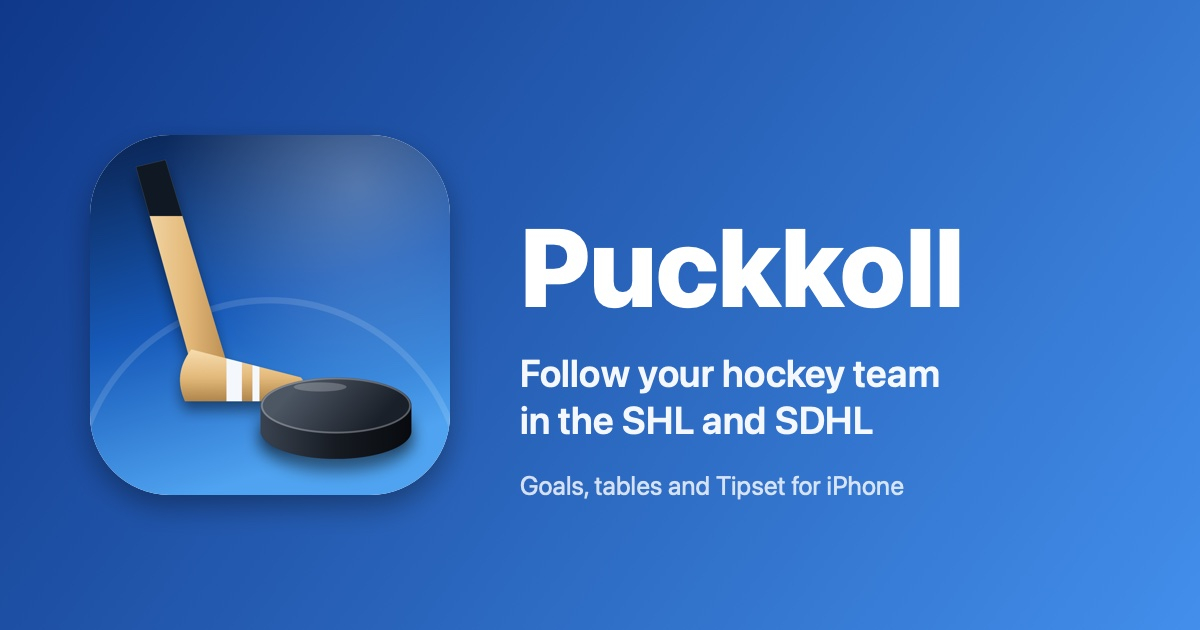
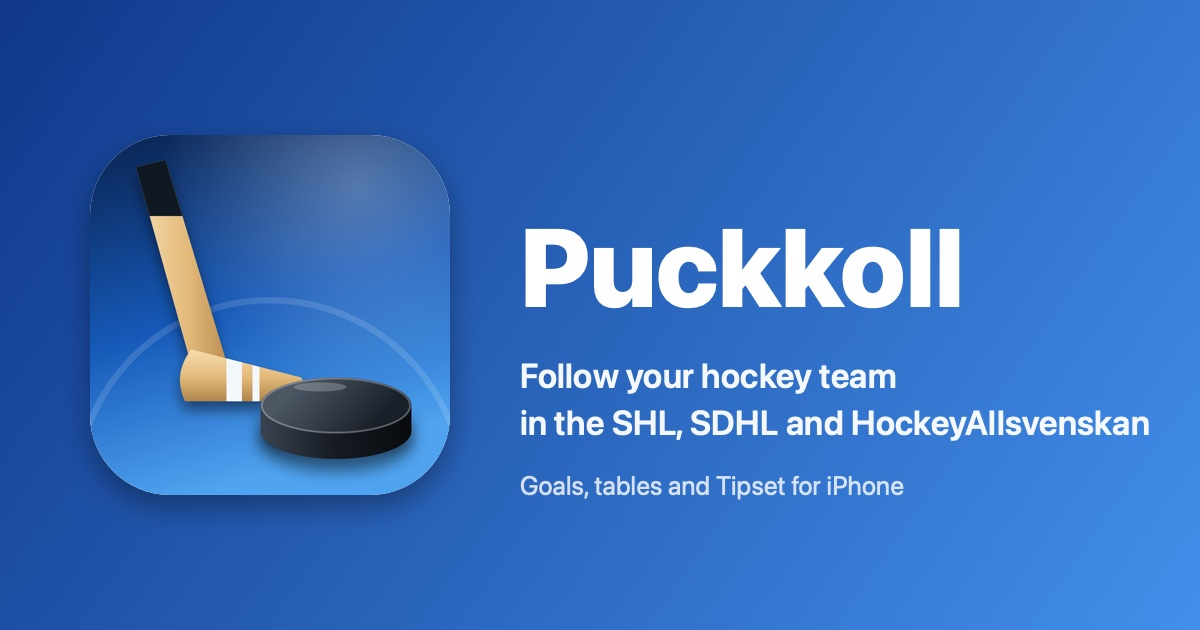
Site: TestFlight link and HockeyAllsvenskan

Changed region(s): [[0.4317, 0.573, 0.9558, 0.6937]]

diff --git a/index.html b/index.html
@@ -3,13 +3,13 @@
 <head>
   <meta charset="utf-8">
   <meta name="viewport" content="width=device-width, initial-scale=1">
-  <title>Puckkoll – follow your hockey team in the SHL and SDHL</title>
-  <meta name="description" content="Puckkoll is an iPhone app for following SHL and SDHL hockey: schedule, live scores, tables, goal notifications, Live Activities, an Apple Watch app and Tipset to tip with friends. No accounts, no ads, no tracking.">
+  <title>Puckkoll – follow your hockey team in the SHL, SDHL and HockeyAllsvenskan</title>
+  <meta name="description" content="Puckkoll is an iPhone app for following SHL, SDHL and HockeyAllsvenskan hockey: schedule, live scores, tables, goal notifications, Live Activities, an Apple Watch app and Tipset to tip with friends. No accounts, no ads, no tracking.">
   <meta name="theme-color" content="#2b6fd0">
   <link rel="icon" type="image/png" href="assets/favicon.png">
   <link rel="apple-touch-icon" href="assets/apple-touch-icon.png">
   <meta property="og:title" content="Puckkoll">
-  <meta property="og:description" content="Follow your hockey team in the SHL and SDHL: goals, tables and Tipset for iPhone. No accounts, no tracking.">
+  <meta property="og:description" content="Follow your hockey team in the SHL, SDHL and HockeyAllsvenskan: goals, tables and Tipset for iPhone. No accounts, no tracking.">
   <meta property="og:type" content="website">
   <meta property="og:url" content="https://idrewn.github.io/puckkoll-site/">
   <meta property="og:image" content="https://idrewn.github.io/puckkoll-site/assets/og.jpg">
@@ -27,8 +27,9 @@
   <div class="wrap hero">
     <div class="mark" aria-hidden="true"><span class="puck"></span></div>
     <h1>Puckkoll</h1>
-    <p class="lead">Your team in the SHL and SDHL, on every screen you own: the schedule, the score as it changes, the table and a notification when it counts.</p>
-    <span class="badge">In TestFlight beta, by invitation &middot; iOS 26 or later</span>
+    <p class="lead">Your team in the SHL, SDHL or HockeyAllsvenskan, on every screen you own: the schedule, the score as it changes, the table and a notification when it counts.</p>
+    <p style="margin:0 0 14px;"><a class="button" href="https://testflight.apple.com/join/mNUufdGk" rel="noopener">Join the beta on TestFlight</a></p>
+    <span class="badge">In TestFlight beta &middot; iOS 26 or later</span>
     <div class="clubs" aria-label="The fourteen SHL clubs, drawn as pucks in their colours">
       <span class="puck" style="--a:#FFCC00;--b:#000000" title="Brynäs"></span>
       <span class="puck" style="--a:#0568AF;--b:#FFEC0D" title="Djurgården"></span>
@@ -64,8 +65,8 @@
           <p>Home and away tables, form dots and the places that decide the playoffs. Pick which columns to show, from played games to goals for and against.</p></div>
         <div class="card"><span class="puck" style="--a:#0568AF;--b:#FFEC0D" aria-hidden="true"></span><h3>Pucks for badges</h3>
           <p>Every club is a puck in its own colours. Prefer the classic disc with the club code, or a picture of your own on any club? Both are in the settings.</p></div>
-        <div class="card"><span class="puck" style="--a:#003781;--b:#F37932" aria-hidden="true"></span><h3>SHL and SDHL</h3>
-          <p>Switch league from the menu at the top. SDHL has the schedule, results, table and player statistics; notifications and Tipset are SHL only for now.</p></div>
+        <div class="card"><span class="puck" style="--a:#003781;--b:#F37932" aria-hidden="true"></span><h3>Three leagues</h3>
+          <p>Switch between SHL, SDHL and HockeyAllsvenskan from the menu at the top. HockeyAllsvenskan has goals and penalties like the SHL; SDHL has the schedule, results, table and player statistics. Notifications and Tipset are for the SHL so far.</p></div>
         <div class="card"><span class="puck" style="--a:#EC3E34;--b:#FFFFFF" aria-hidden="true"></span><h3>Private by design</h3>
           <p>No accounts, no ads and no tracking. The server only knows what it needs to send you a notification. <a href="privacy.html">Read the privacy policy</a>.</p></div>
       </div>
@@ -77,7 +78,7 @@
       <h2>A look around</h2>
       <p class="sub">Swedish by default, English if your phone is. Light or dark, in the colours of your team.</p>
       <div class="pair">
-        <figure><img src="assets/screen-sdhl-matches.jpg" alt="The SDHL schedule in Puckkoll: results and the next game, with a league menu in the top corner" loading="lazy" width="1600" height="1125"><figcaption>The league menu switches between SHL and SDHL.</figcaption></figure>
+        <figure><img src="assets/screen-sdhl-matches.jpg" alt="The SDHL schedule in Puckkoll: results and the next game, with a league menu in the top corner" loading="lazy" width="1600" height="1125"><figcaption>The league menu switches between SHL, SDHL and HockeyAllsvenskan.</figcaption></figure>
         <figure><img src="assets/screen-columns.jpg" alt="A sheet for choosing the table's columns, over the SHL table" loading="lazy" width="1600" height="1125"><figcaption>Choose which columns the table shows.</figcaption></figure>
         <figure><img src="assets/screen-badges.jpg" alt="A grid of the fourteen SHL clubs as pucks, where a picture of your own can be chosen for each" loading="lazy" width="1600" height="1125"><figcaption>Put a picture of your own on any club.</figcaption></figure>
       </div>
@@ -114,13 +115,14 @@
           <ul>
             <li>iPhone with iOS 26 or later; iPhone Duo is supported with its own layout</li>
             <li>Swedish and English</li>
-            <li>Notifications, Live Activities and Tipset use the Puckkoll server and are for the SHL</li>
-            <li>Available through TestFlight by invitation</li>
+            <li>Notifications, Live Activities and Tipset use the Puckkoll server and are for the SHL so far</li>
+            <li>Available through <a href="https://testflight.apple.com/join/mNUufdGk" rel="noopener">TestFlight</a></li>
           </ul>
         </div>
       </div>
       <p style="margin-top:32px;">
-        <a class="button" href="support.html">Get support</a>
+        <a class="button" href="https://testflight.apple.com/join/mNUufdGk" rel="noopener">Join the beta</a>
+        <a class="button secondary" href="support.html">Get support</a>
         <a class="button secondary" href="privacy.html">Privacy policy</a>
         <a class="button secondary" href="integritet.html">Integritetspolicy (svenska)</a>
       </p>

diff --git a/support.html b/support.html
@@ -22,7 +22,7 @@
     <h1>Support</h1>
     <p class="meta">Help with Puckkoll</p>
 
-    <p>Found a bug or have an idea? <a href="https://github.com/iDrewn/puckkoll-site/issues">Open an issue on GitHub</a>. If you are a TestFlight tester you can also send feedback from the TestFlight app. Please include your iPhone model, iOS version, the app's version and build (under Mer) and what you were doing. Do not post personal details or your Tipset identity in a public issue.</p>
+    <p>Found a bug or have an idea? <a href="https://github.com/iDrewn/puckkoll-site/issues">Open an issue on GitHub</a>. If you are a TestFlight tester you can also send feedback from the TestFlight app. Not testing yet? <a href="https://testflight.apple.com/join/mNUufdGk" rel="noopener">Join the beta on TestFlight</a>. Please include your iPhone model, iOS version, the app's version and build (under Mer) and what you were doing. Do not post personal details or your Tipset identity in a public issue.</p>
 
     <h2>Common questions</h2>
 
@@ -31,11 +31,11 @@
       <p>Go to Mer &rarr; Notiser and switch on Notiser och Live Activities, and allow notifications when iOS asks. Then follow at least one club under Mina lag: notifications are sent for the clubs you follow. Check that the club is an SHL club and that Focus or Do Not Disturb is not holding them back. Notifications and Live Activities come from the Puckkoll server; if the app shows a banner that the server is being serviced, they may be late for a while.</p>
     </details>
     <details>
-      <summary>Why are there no notifications for SDHL?</summary>
-      <p>The SDHL's website has the schedule, results, table and player statistics, but no goals or period data. Puckkoll can show all of that, and notifications, Live Activities and Tipset are for the SHL only for now.</p>
+      <summary>Why are there no notifications for SDHL or HockeyAllsvenskan?</summary>
+      <p>The server follows the SHL so far. Puckkoll can show the SDHL (schedule, results, table and player statistics, but the league publishes no goals) and HockeyAllsvenskan (with goals, penalties and shots) in the app, and notifications, Live Activities and Tipset are for the SHL only for now.</p>
     </details>
     <details>
-      <summary>How do I switch between SHL and SDHL?</summary>
+      <summary>How do I switch between the leagues?</summary>
       <p>Use the league menu in the top corner of Matcher and Tabell, or Mer &rarr; Utseende &rarr; Liga. The clubs you follow are remembered separately for each league.</p>
     </details>
     <details>

diff --git a/privacy.html b/privacy.html
@@ -61,7 +61,7 @@
 
     <h2>Other services the app talks to</h2>
     <ul>
-      <li><strong>shl.se and sdhl.se.</strong> The app fetches schedules, results, tables and statistics directly from the leagues' own websites. They can see your IP address and the app's requests, as with any website, under their own privacy policies. Puckkoll is not affiliated with them.</li>
+      <li><strong>shl.se, sdhl.se and hockeyallsvenskan.se.</strong> The app fetches schedules, results, tables and statistics directly from the leagues' own websites. They can see your IP address and the app's requests, as with any website, under their own privacy policies. Puckkoll is not affiliated with them.</li>
       <li><strong>Apple.</strong> Apple delivers notifications and Live Activities, distributes the app through TestFlight or the App Store, and may collect usage and crash data under Apple's own policy. I see only what Apple chooses to share, such as feedback you send through TestFlight.</li>
       <li><strong>Where to watch.</strong> A button for where to watch a game opens the broadcaster's website in your browser, which is then subject to its own policy.</li>
     </ul>

diff --git a/integritet.html b/integritet.html
@@ -61,7 +61,7 @@
 
     <h2>Andra tjänster som appen pratar med</h2>
     <ul>
-      <li><strong>shl.se och sdhl.se.</strong> Appen hämtar scheman, resultat, tabeller och statistik direkt från ligornas egna webbplatser. De kan, som alla webbplatser, se din IP-adress och appens anrop, enligt sina egna integritetspolicyer. Puckkoll har ingen koppling till dem.</li>
+      <li><strong>shl.se, sdhl.se och hockeyallsvenskan.se.</strong> Appen hämtar scheman, resultat, tabeller och statistik direkt från ligornas egna webbplatser. De kan, som alla webbplatser, se din IP-adress och appens anrop, enligt sina egna integritetspolicyer. Puckkoll har ingen koppling till dem.</li>
       <li><strong>Apple.</strong> Apple levererar notiser och Live Activities, distribuerar appen via TestFlight eller App Store och kan samla in användnings- och kraschdata enligt Apples egen policy. Jag ser bara det Apple väljer att dela, till exempel synpunkter du skickar via TestFlight.</li>
       <li><strong>Var du kan se matchen.</strong> En knapp för var du kan se en match öppnar sändarens webbplats i din webbläsare, och då gäller dess egen policy.</li>
     </ul>

diff --git a/README.md b/README.md
@@ -1,6 +1,6 @@
 # Puckkoll
 
-Website for **Puckkoll**, an iPhone app for following SHL and SDHL hockey: schedule, live scores, tables, goal notifications, Live Activities, an Apple Watch app and Tipset to tip with friends (iOS 26 and later).
+Website for **Puckkoll**, an iPhone app for following SHL, SDHL and HockeyAllsvenskan hockey: schedule, live scores, tables, goal notifications, Live Activities, an Apple Watch app and Tipset to tip with friends (iOS 26 and later).
 
 Live site (once Pages is switched on): https://idrewn.github.io/puckkoll-site/
 
